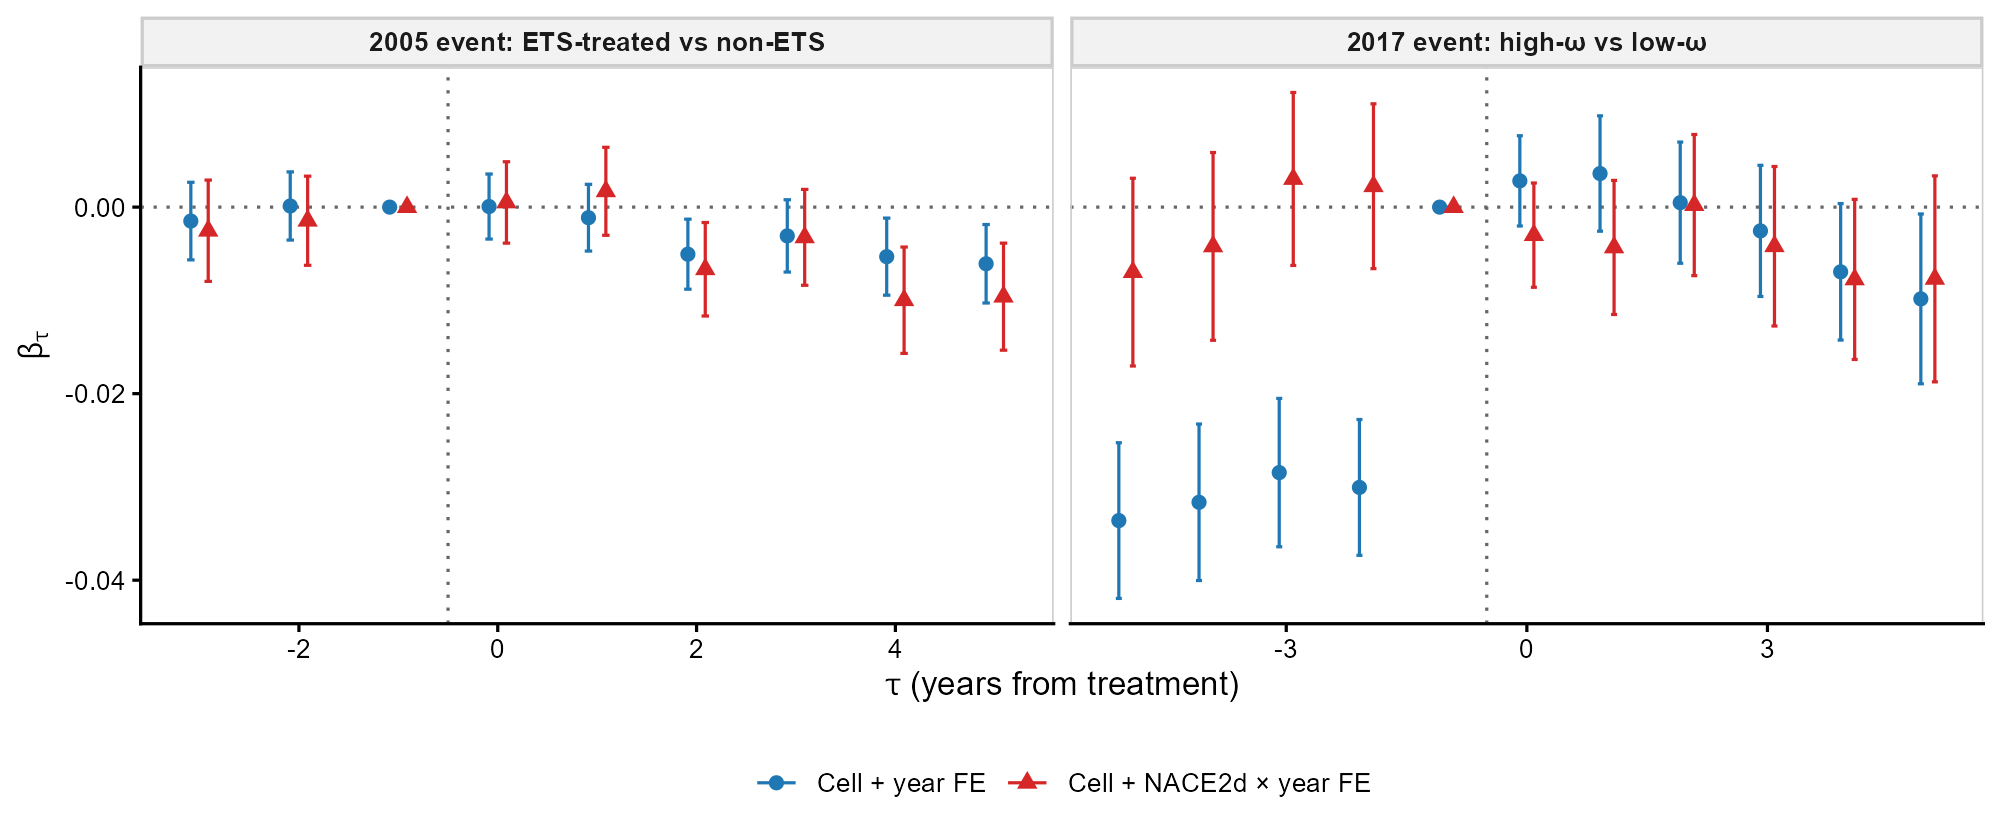
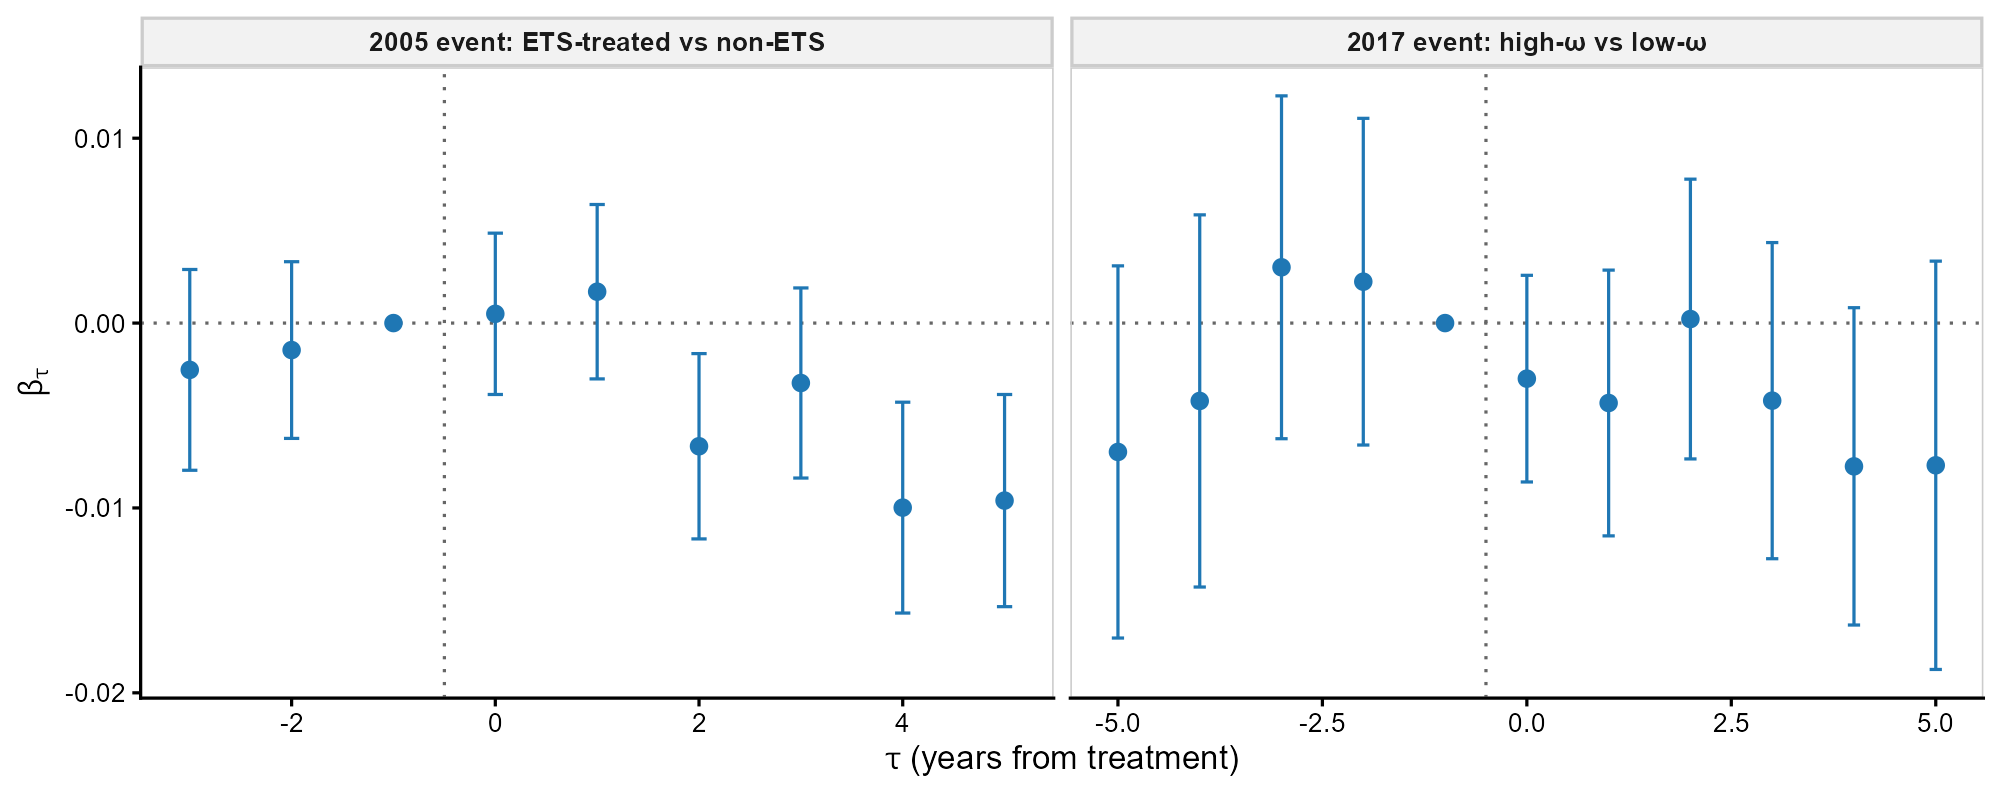
feat(across-nace4d): top-Q omega vs non-ETS heterogeneity + simplified paper outputs
Script (phase4_across_nace4d_intensive_DiD.R):
- Add a 5th variant: 2017-topq-vs-nonets. Treatment = NACE4d in top
  quartile of omega among classifiable ETS-NACE4d; control = non-ETS
  NACE4d. ETS-NACE4d below the Q75 omega threshold are dropped from
  the sample so the contrast is sharp. Regression window 2012-22,
  cell inclusion = bought in 2015-16. Sharpest extensive heterogeneity
  cut for the 2017 event: "do the MOST exposed ETS sectors lose share
  to unregulated sectors?"
- Add top_q_omega column in nace_attr (Q75 split among classifiable
  omega), and a treatment_kind == "top_q_omega_vs_nonets" branch in
  build_panel.

Paper-ready outputs:
- Table (_paper.tex) now has a single FE column (cell + NACE2d x year)
  and three rows: 2005 ETS vs non-ETS, 2017 high vs low omega within
  ETS, 2017 top-quartile omega vs non-ETS. The cell+year column was
  dropped because its 2017 pre-trend is unidentifiable.
- Figure now plots only the NACE2d x year FE series (single color,
  no legend). 2 facets (2005, 2017 high vs low) unchanged.
- Diagnostic _coefs.{csv,tex} keep all 5 variants x 2 FE specs.

Local-1 (downsampled) headline numbers for aesthetic review:
- 2005:               -0.0082*** (will flip to +0.0031*** on RMD)
- 2017 high vs low:   -0.0033  (ns)
- 2017 topq vs nonETS:-0.0023  (ns, N=168k)

diff --git a/output_local/tables/phase4_across_nace4d_intensive_DiD_paper.tex b/output_local/tables/phase4_across_nace4d_intensive_DiD_paper.tex
@@ -1,16 +1,20 @@
 % Requires \usepackage{makecell,booktabs} in main.tex
 % Across-NACE4d intensive-margin DiD: headline static-DiD coefficients.
-\begin{tabular}{lcc}
+% Single FE specification: cell + NACE2d x year (absorbs sector-aggregate cycles).
+\begin{tabular}{lc}
 \toprule
- & Cell + year FE & Cell + NACE2d $\times$ year FE \\
+ & Cell + NACE2d $\times$ year FE \\
 \midrule
-\makecell[l]{2005 event \\ \footnotesize{(ETS-treated vs non-ETS)}} & \makecell{-0.0076$^{***}$ \\ \footnotesize{(0.0015)} \\ \footnotesize{N=447k}} & \makecell{-0.0082$^{***}$ \\ \footnotesize{(0.0021)} \\ \footnotesize{N=447k}} \\\addlinespace
-\makecell[l]{2017 event \\ \footnotesize{(high-$\omega$ vs low-$\omega$)}} & \makecell{0.0227$^{***}$ \\ \footnotesize{(0.0032)} \\ \footnotesize{N=63k}} & \makecell{-0.0033 \\ \footnotesize{(0.0037)} \\ \footnotesize{N=63k}} \\\addlinespace
+\makecell[l]{2005 event \\ \footnotesize{(ETS-treated vs non-ETS)}} & \makecell{-0.0082$^{***}$ \\ \footnotesize{(0.0021)} \\ \footnotesize{N=447k}} \\\addlinespace
+\makecell[l]{2017 event \\ \footnotesize{(high-$\omega$ vs low-$\omega$, within ETS)}} & \makecell{-0.0033 \\ \footnotesize{(0.0037)} \\ \footnotesize{N=63k}} \\\addlinespace
+\makecell[l]{2017 event \\ \footnotesize{(top-quartile $\omega$ vs non-ETS)}} & \makecell{-0.0023 \\ \footnotesize{(0.0051)} \\ \footnotesize{N=168k}} \\\addlinespace
 \bottomrule
 \end{tabular}
 % Notes: Outcome is buyer's share of total B2B spend directed at NACE4d $n$.
-% Unit of observation is buyer $\times$ NACE4d $\times$ year.
-% 2005 event uses regression window 2002--2022 with NACE4d sample = ETS-treated $\cup$ non-ETS.
-% 2017 event uses the 2017-sym window (2012--2022) with NACE4d sample = ETS-treated and $\omega$ measured over 2015--2016 EUTL.
-% Cluster-robust SE in parentheses (cluster = buyer $\times$ NACE4d cell).
+% Unit of observation is buyer $\times$ NACE4d $\times$ year. Cell = buyer $\times$ NACE4d.
+% 2005 event: regression window 2002--2022, NACE4d sample = ETS-treated $\cup$ non-ETS.
+% 2017 high-vs-low: regression window 2012--2022, NACE4d sample = ETS-treated with classifiable $\omega$, median split.
+% 2017 top-quartile vs non-ETS: regression window 2012--2022, NACE4d sample = top-25\% $\omega$ ETS-treated $\cup$ non-ETS (ETS NACE4d below Q75 dropped).
+% $\omega_n$ aggregated to NACE4d from firm-level shortage / total cost over 2015--2016 EUTL.
+% Cluster-robust SE in parentheses (cluster = cell).
 % Significance: $^{\dagger}\,p<0.10$, $^{*}\,p<0.05$, $^{**}\,p<0.01$, $^{***}\,p<0.001$.

diff --git a/output_local/tables/phase4_across_nace4d_intensive_DiD_coefs.tex b/output_local/tables/phase4_across_nace4d_intensive_DiD_coefs.tex
@@ -1,5 +1,5 @@
 % latex table generated in R 4.5.2 by xtable 1.8-8 package
-% Fri May 15 11:02:14 2026
+% Fri May 15 11:12:56 2026
 \begin{table}[ht]
 \centering
 \caption{Across-NACE4d intensive-margin DiD on buyer portfolio share. 2005 event: binary ETS-treated vs non-ETS. 2017 variants: high-omega vs low-omega within ETS-treated.} 
@@ -15,6 +15,8 @@ variant & fe\\_spec & n\\_obs & n\\_cells & n\\_buyers & n\\_nace4d & term & est
   2017-sym & nace2dxyear & 63036 &  5985 &  1273 &    67 & post::1:treatment & -0.0033 & 0.0037 & -0.8721 & 0.3832 \\ 
   2017-long & base & 117243 &  5985 &  1273 &    67 & post::1:treatment & 0.0234 & 0.0035 & 6.7575 & 0.0000 \\ 
   2017-long & nace2dxyear & 117234 &  5985 &  1273 &    67 & post::1:treatment & -0.0054 & 0.0040 & -1.3526 & 0.1762 \\ 
+  2017-topq-vs-nonets & base & 167845 & 15911 &  1418 &   194 & post::1:treatment & 0.0477 & 0.0039 & 12.1287 & 0.0000 \\ 
+  2017-topq-vs-nonets & nace2dxyear & 167812 & 15911 &  1418 &   194 & post::1:treatment & -0.0023 & 0.0051 & -0.4557 & 0.6486 \\ 
    \bottomrule
 \end{tabular}
 \end{table}
